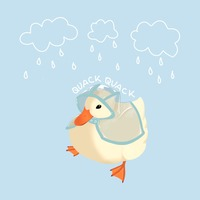
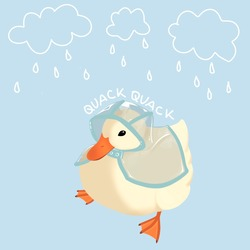
style

diff --git a/P5/Net/style.css b/P5/Net/style.css
@@ -16,19 +16,27 @@ body {
     align-items: center;
     margin: 10px;
     text-align: center;
-    color: #053d57;
+    color: #316a84;
     display: flex;
     flex-direction: column;
 }
 
 img {
-    width: 200px;
-    height: 200px;
+    width: 250px;
+    height: 250px;
+    border-radius: 15px;
+    border-color: #316a84;
+    border-width: medium;
+    border-style: dotted;
 }
 
 canvas {
-    width: 200px;
-    height: 200px;
+    width: 250px;
+    height: 250px;
+    border-radius: 15px;
+    border-color: #316a84;
+    border-width: medium;
+    border-style: dotted;
 }
 
 .container {
@@ -39,6 +47,7 @@ canvas {
     padding: 20px 20px;
     margin: 10px 0;
     width: 700px;
+    font-size: 1.2rem;
 }
 
 .img-container {
@@ -57,12 +66,39 @@ button {
     border: none;
     border-radius: 5px;
     padding: 10px;
-    font-size: 0.9rem;
+    font-size: 1rem;
     color: #fff;
 }
 
 button:hover {
     background-color: #76909ebb;
+    cursor: pointer;
+}
+
+.slider {
+    -webkit-appearance: none;
+    appearance: none;
+    height: 12px;
+    border-radius: 5px;
+    background: #d3d3d3;
+    outline: none;
+    opacity: 0.5;
+    -webkit-transition: .2s;
+    transition: opacity .2s;
+}
+
+.slider:hover {
+    opacity: 0.9;
+}
+  
+.slider::-webkit-slider-thumb {
+    -webkit-appearance: none;
+    appearance: none;
+    width: 18px;
+    height: 18px;
+    border-radius: 50%;
+    background: #316a84;
+    cursor: pointer;
 }
 
 #cloud {

diff --git a/P5/Net/net.js b/P5/Net/net.js
@@ -2,6 +2,7 @@ console.log("Montando la red...")
 
 const gui = {
   bsend : document.getElementById("bsend"),
+  resend : document.getElementById("resend"),
   delay : document.getElementById("delay"),
   delayValue : document.getElementById("delay_value"),
   node : document.getElementById("node"),
@@ -14,8 +15,8 @@ const imgBack = document.getElementById('imagesrchide');
 const imgCloud = document.getElementById('cloud');
 const imgFront = document.getElementById('imagesrc');
 const ctx = canvas.getContext('2d');
-canvas.width = 200;
-canvas.height = 200;
+canvas.width = 250;
+canvas.height = 250;
 
 //-- Gestionar el estado el envío
 const state = {
@@ -40,7 +41,7 @@ imgCloud.onload = function () {
 
   //-- Situar la imagen original en el canvas
   //-- No se han hecho manipulaciones todavía
-  ctx.drawImage(imgCloud, 50, 50);
+  ctx.drawImage(imgCloud, 75, 75);
 }
 
 //-- función de callback para el envío de la imagen
@@ -142,3 +143,8 @@ const sendImage = () => {
 }
 
 console.log("Red preparada...");
+
+gui.resend.onclick = () => {
+  console.log("RESTART");
+  location.reload();
+}

diff --git a/P5/Net/index.html b/P5/Net/index.html
@@ -29,17 +29,16 @@
             </div>
             <div class="data-container">
                 <p>Nodos:
-                    <input type="range" id="node" min="3" max="8" value="3"/>
+                    <input type="range" class="slider" id="node" min="3" max="8" value="3"/>
                     <span id="node_value">3</span>
                 </p>
                 <p>Delay:
-                    <input type="range" id="delay" min="1" max="5" value="1"/>
+                    <input type="range" class="slider" id="delay" min="1" max="5" value="1"/>
                     <span id="delay_value">1</span>
                 </p>
                 <button id="bsend">Enviar</button>
+                <button id="resend">Reenviar</button>
             </div>
-            <!-- <p>La red</p>
-            <img src="net.svg"> -->
         </div>
     </body>
 </html>
